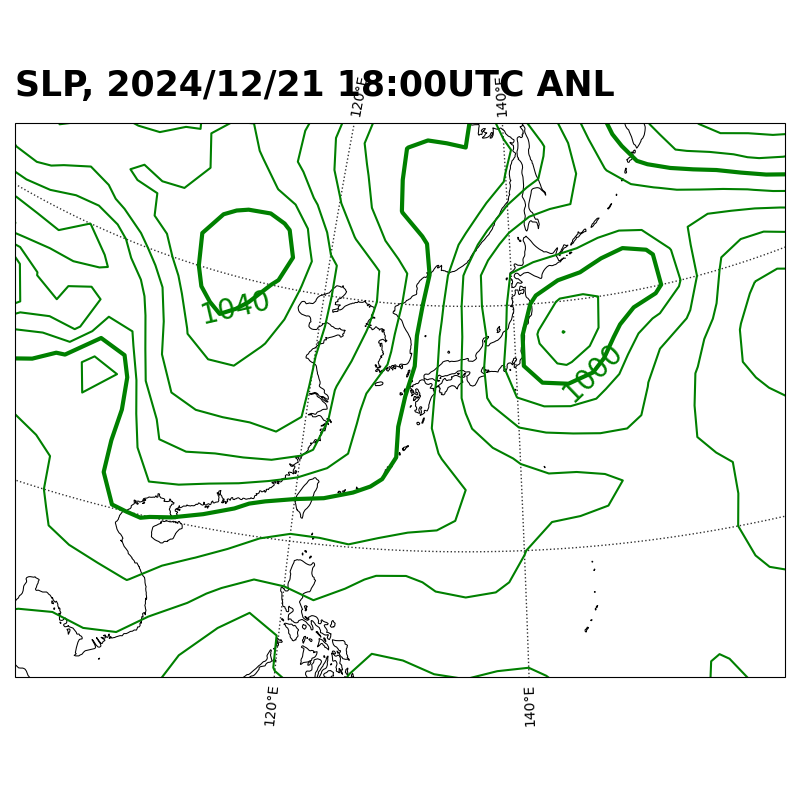
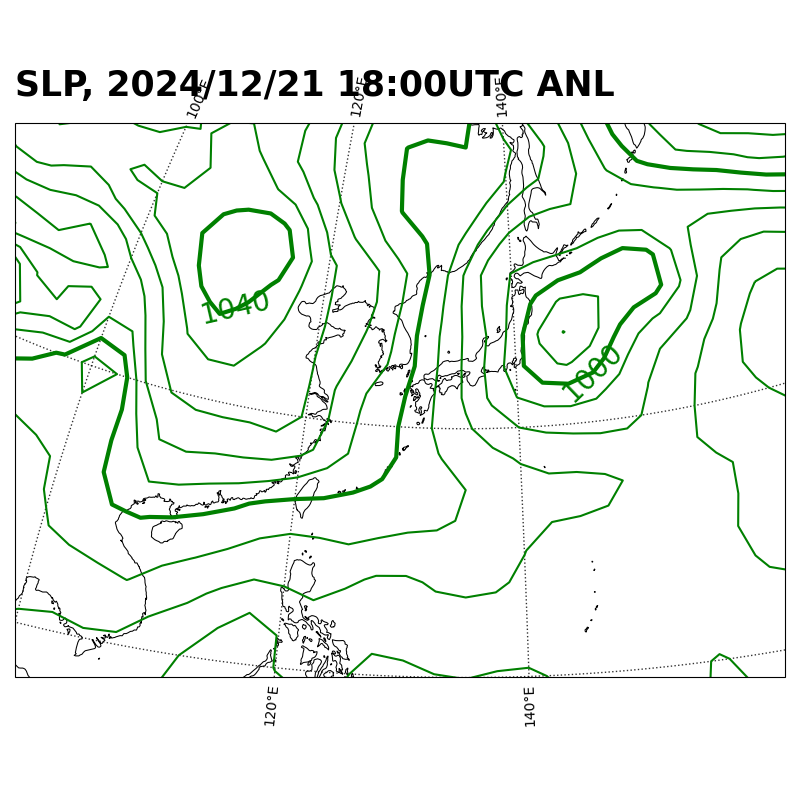
緯度・経度線の範囲を広げる

Changed region(s): [[0.2188, 0.125, 0.25, 0.1562]]

diff --git a/contour-width-adjust.py b/contour-width-adjust.py
@@ -31,7 +31,7 @@ lat_center = 35.0 # 中心緯度
 lon_center = 135.0 # 中心経度
 
 ## GSMデータ（gribをNetCDFに変換したもの）を読み込む
-ifile = f'./data/mslp.2024.nc'
+ifile = f'./mslp.2024.nc'
 ds_surf = xr.open_dataset(ifile)
 print(f"ifile: {ifile}")
 slp = ds_surf['mslp'].sel(time=f"{yyyy:04d}-{mm:02d}-{dd:02d}T{hh:02d}:00").values / 100.0 # 海面校正気圧
